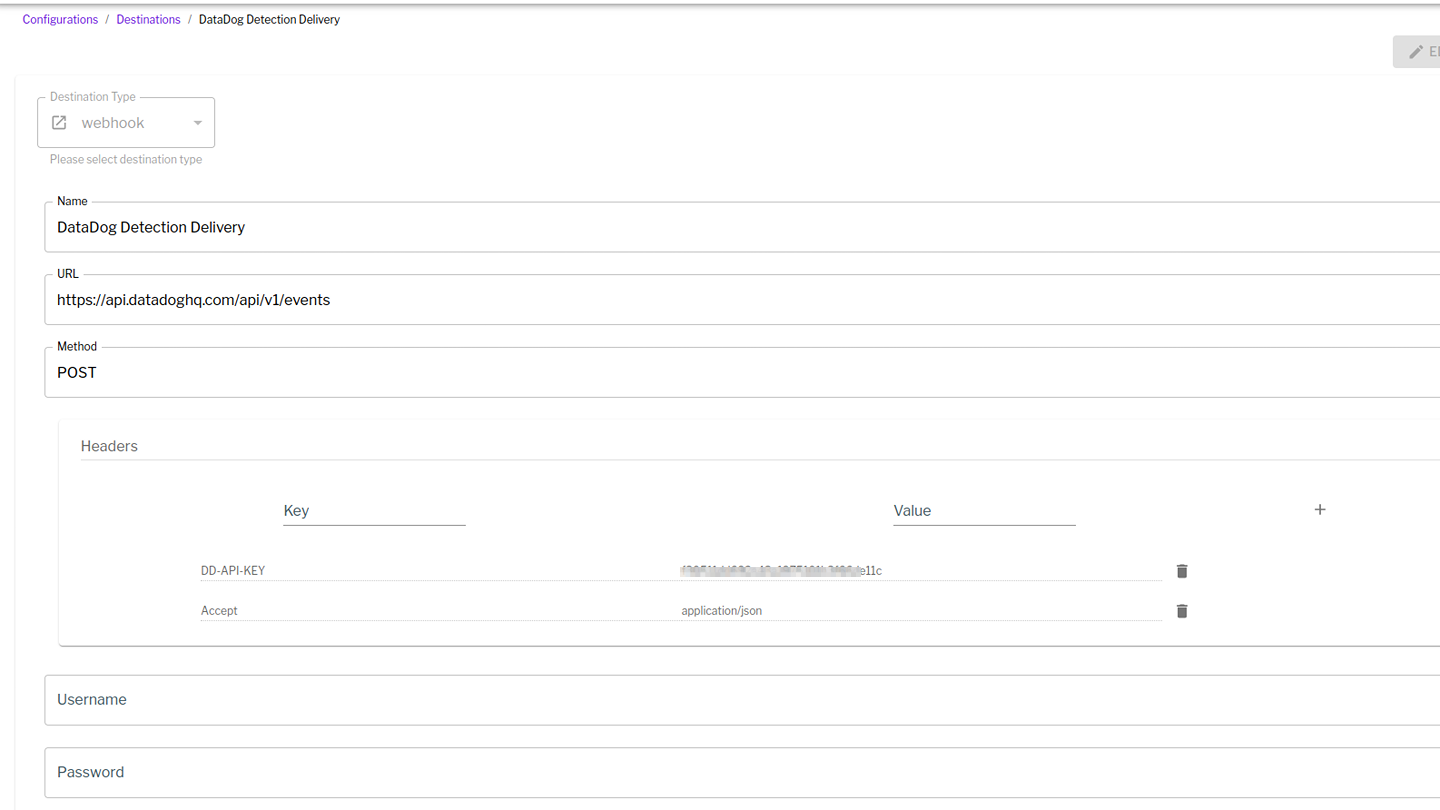
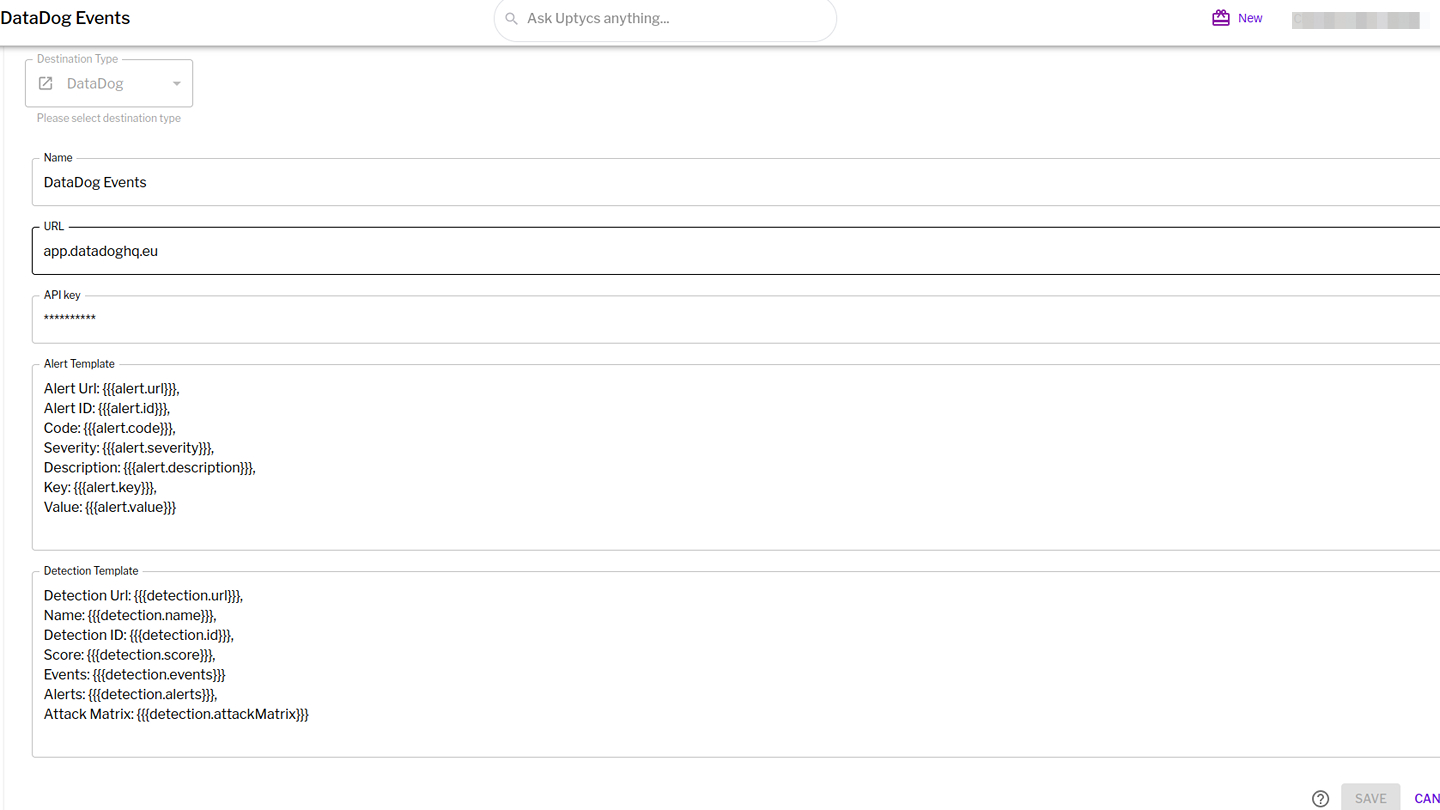
update UI screenshots and steps

diff --git a/uptycs/README.md b/uptycs/README.md
@@ -41,22 +41,18 @@ You'll also need Datadog API keys.
 2. Create a Datadog Integration Destination on Uptycs platform with Datadog API keys.
    1. Go to the Configuration > Destinations.
    2. Click on New destination.
-   3. Select Webhook destination type.
-   3. Provide a name, the DataDog Log collection URL, the API Key as a header.
+   3. Select DataDog destination type.
+   3. Provide a name, the DataDog domain, the API Key. Your can also add custom template for alert or detection in the template field.
 
       ![my screenshot](https://raw.githubusercontent.com/DataDog/integrations-extras/master/uptycs/images/integration_setup_1.png)
 
-   4. Provide your own custom template for alert or detection in the template field.
-
-      ![my screenshot](https://raw.githubusercontent.com/DataDog/integrations-extras/master/uptycs/images/integration_setup_2.png)
-
-   5. Click **save**.
+   4. Click **save**.
 3. Now that the destination is set up, let's create forwarding rule for it.
    1. Go to Configuration > Detection Forwarding Rules > New rule
    2. Provide a name, description, and choose the relevant criteria for the rule.
    3. Select the created destination in the Destinations options.
 
-      ![my screenshot](https://raw.githubusercontent.com/DataDog/integrations-extras/master/uptycs/images/integration_setup_3.png)
+      ![my screenshot](https://raw.githubusercontent.com/DataDog/integrations-extras/master/uptycs/images/integration_setup_2.png)
 
    4. Select Enable Rule and click **save**.
 4. The Created destination can be used for alert forwarding.
@@ -65,7 +61,7 @@ You'll also need Datadog API keys.
    3. Select the created destination in the 'Destinations' options.
    4. Select options 'Notify on Every Alert', 'Close After Delivery'.
 
-      ![my screenshot](https://raw.githubusercontent.com/DataDog/integrations-extras/master/uptycs/images/integration_setup_4.png)
+      ![my screenshot](https://raw.githubusercontent.com/DataDog/integrations-extras/master/uptycs/images/integration_setup_3.png)
 
    5. Click **save**.
 6. Once Uptycs generates an alert or detection, it will be delivered as a DataDog Event.
